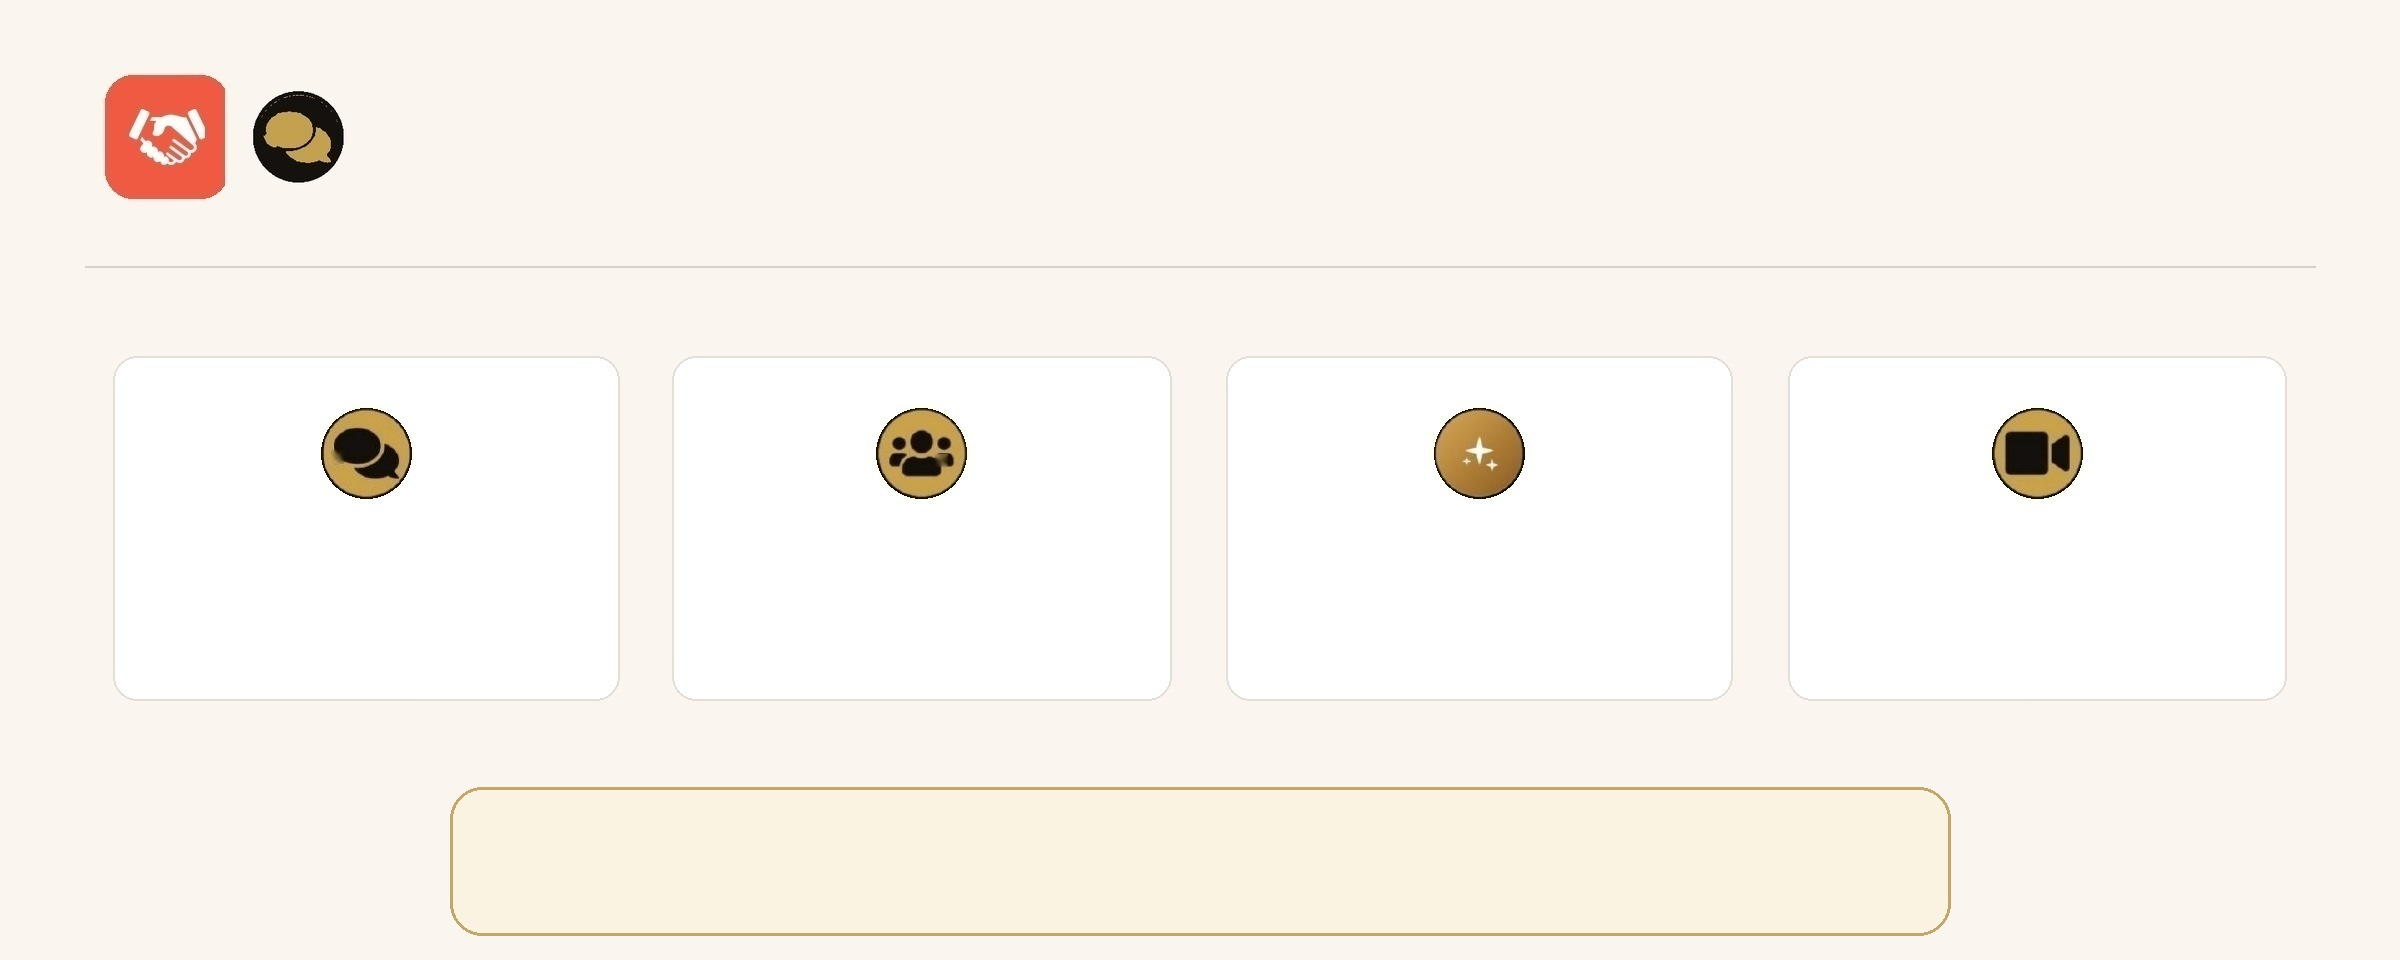
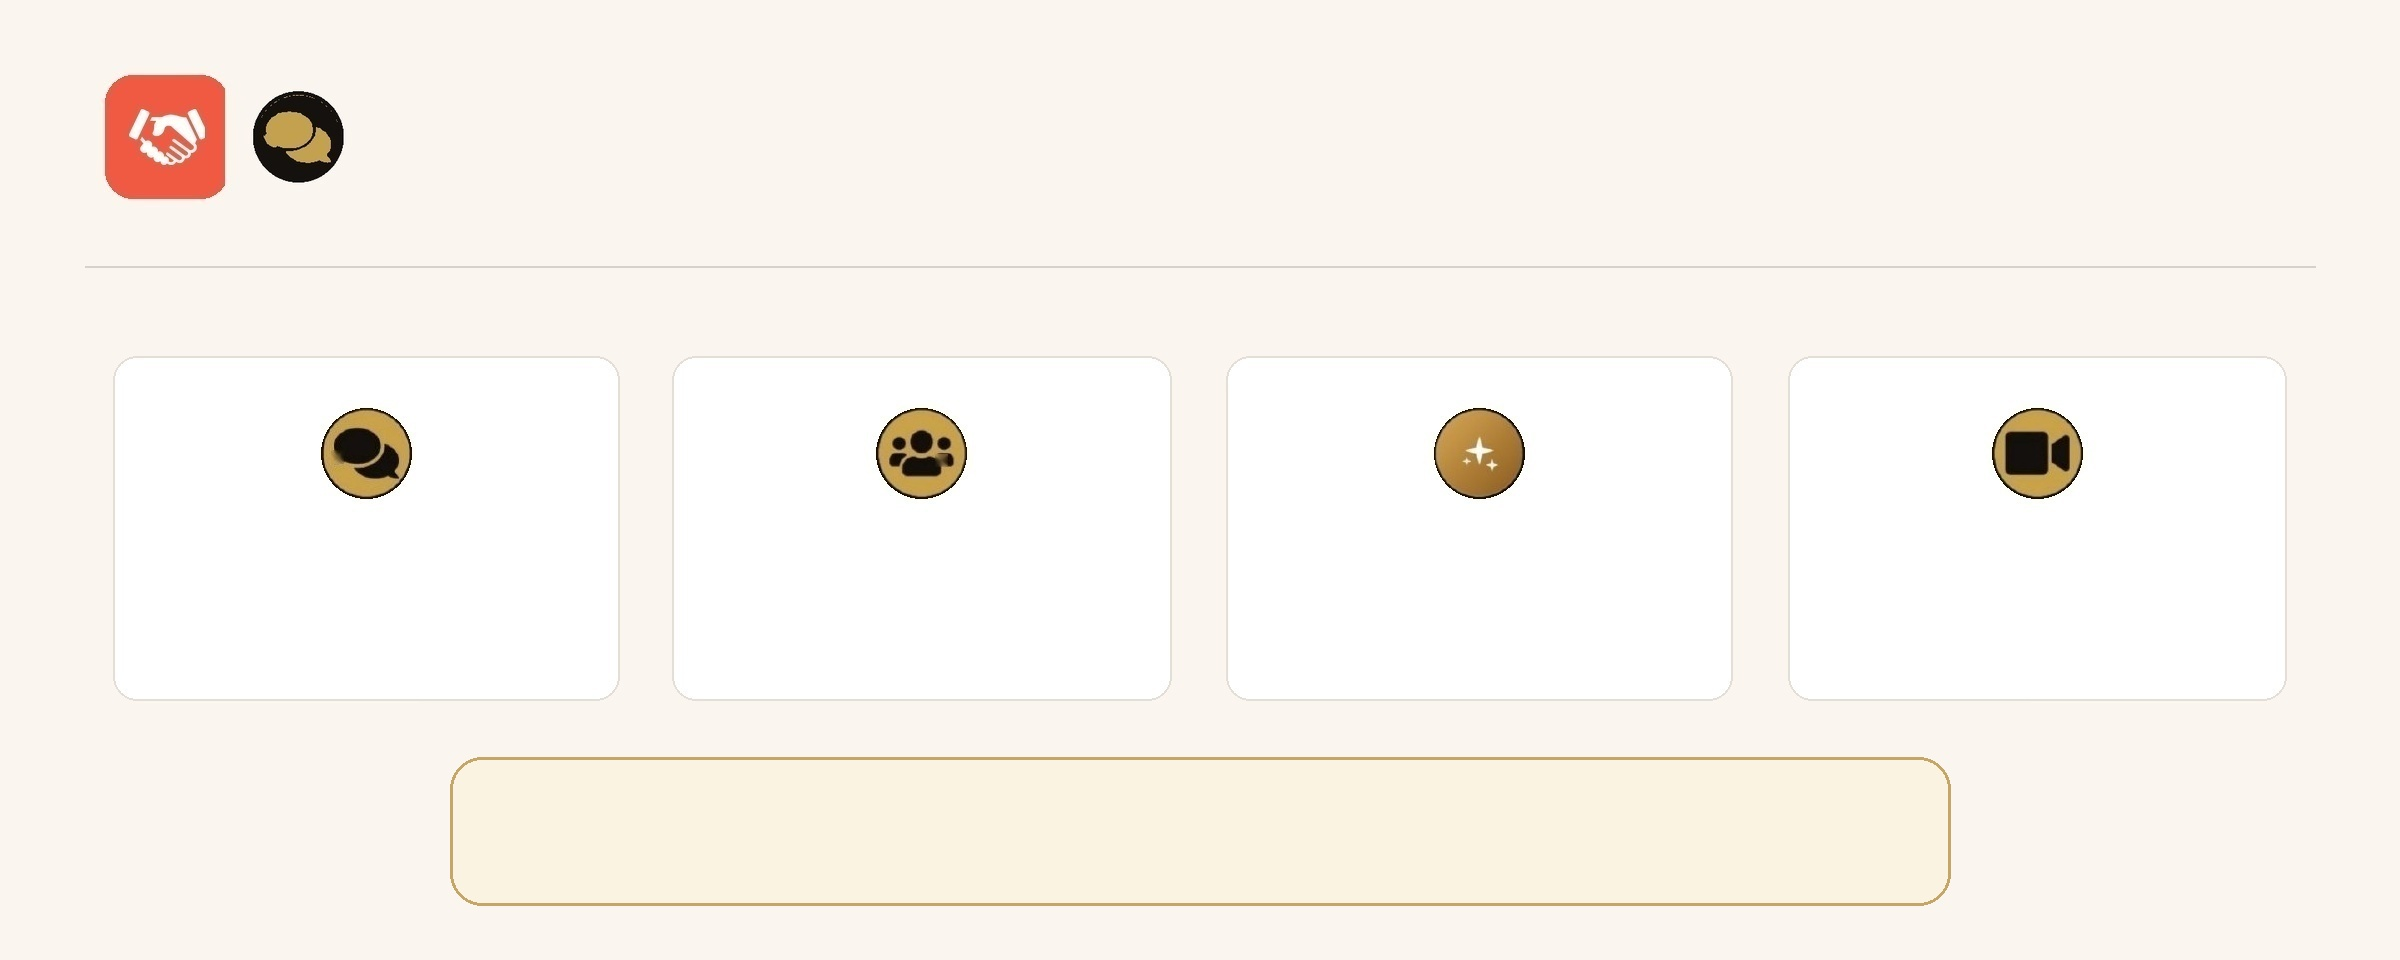
Revert "Shift slide 3 quote box down (both edges lowered)"
This reverts commit 38150a38bd6b531818f471bc45771c863f177a11.

Changed region(s): [[0.1875, 0.9375, 0.8125, 1.0], [0.1875, 0.7812, 0.8125, 0.8438]]

diff --git a/docs/index.html b/docs/index.html
@@ -160,7 +160,7 @@
   .ov-s3-title{ position:absolute; top:54%; box-sizing:border-box; padding:0 1.6%; text-align:center; font-family:'Playfair Display',serif; font-weight:700; font-size:1.3cqw; color:#241a10; }
   .ov-s3-desc{ position:absolute; top:60.94%; box-sizing:border-box; padding:0 1.6%; text-align:center; font-family:'Nunito',sans-serif; font-weight:800; font-size:1.05cqw; line-height:1.55; color:#241a10; }
   .ov-s3-quote{
-    position:absolute; left:18.75%; top:82.0%; width:62.5%; height:15.42%;
+    position:absolute; left:18.75%; top:78.85%; width:62.5%; height:15.42%;
     box-sizing:border-box; padding:0 2%;
     display:flex; align-items:center; justify-content:center; text-align:center;
     font-family:'Playfair Display',serif; font-style:italic; font-weight:900; font-size:1.45cqw; line-height:1.4; color:#8a5a1f;
@@ -213,7 +213,7 @@
     <div class="ov ov-badge on-dark" style="top:90.65%;"><span class="num">2</span><span class="den">/23</span></div>
   </div>
   <div class="slide-wrap">
-    <img class="slide-img" src="assets/slides/slide-03.jpg?v=14" alt="Слайд 3 — формат поддержки">
+    <img class="slide-img" src="assets/slides/slide-03.jpg?v=13" alt="Слайд 3 — формат поддержки">
     <div class="ov ov-s3-heading">Формат поддержки</div>
     <div class="ov ov-s3-subtitle">Как я поддерживаю тебя на протяжении всего курса:</div>
     <div class="ov ov-s3-title" style="left:4.708%;width:21.083%;">Личная обратная связь</div>
